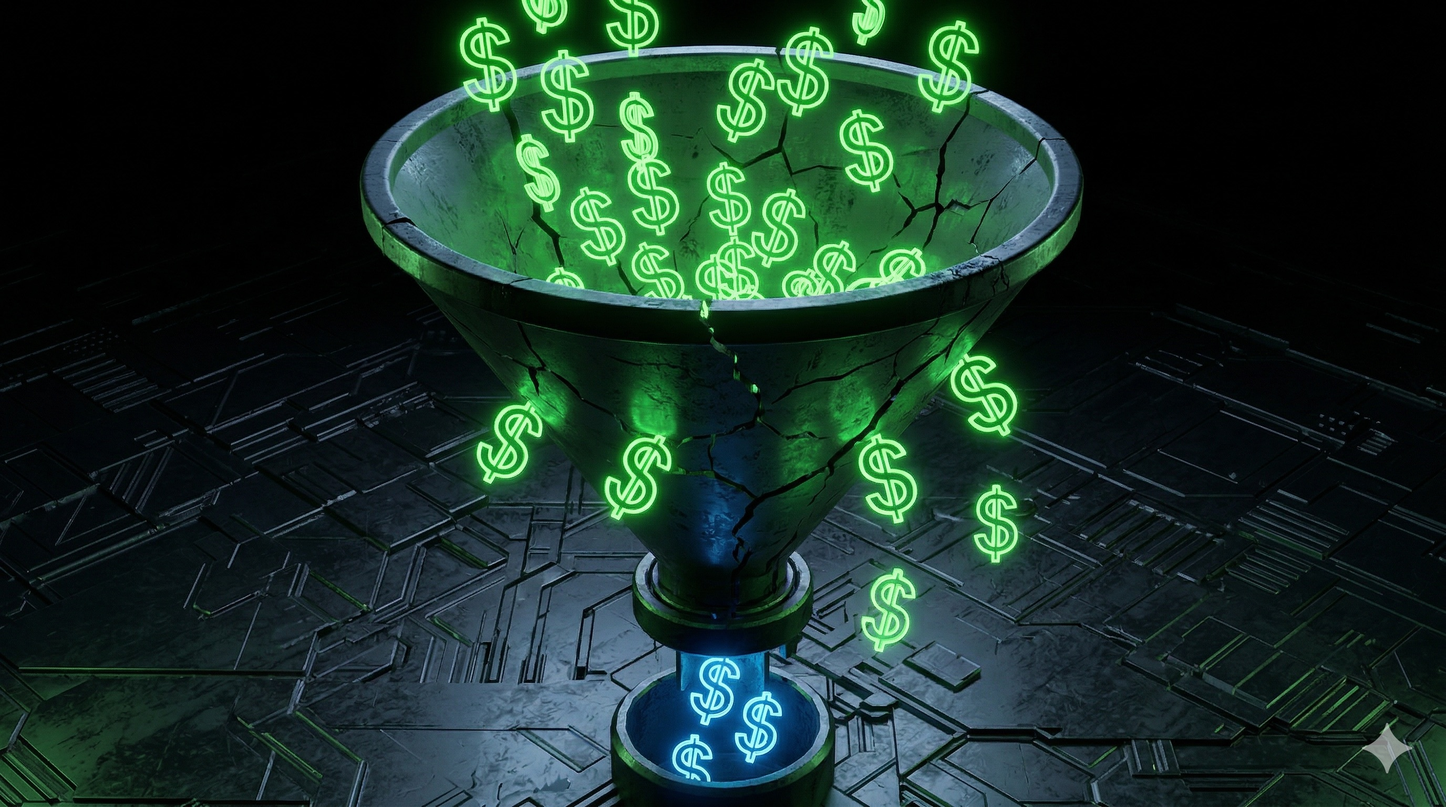
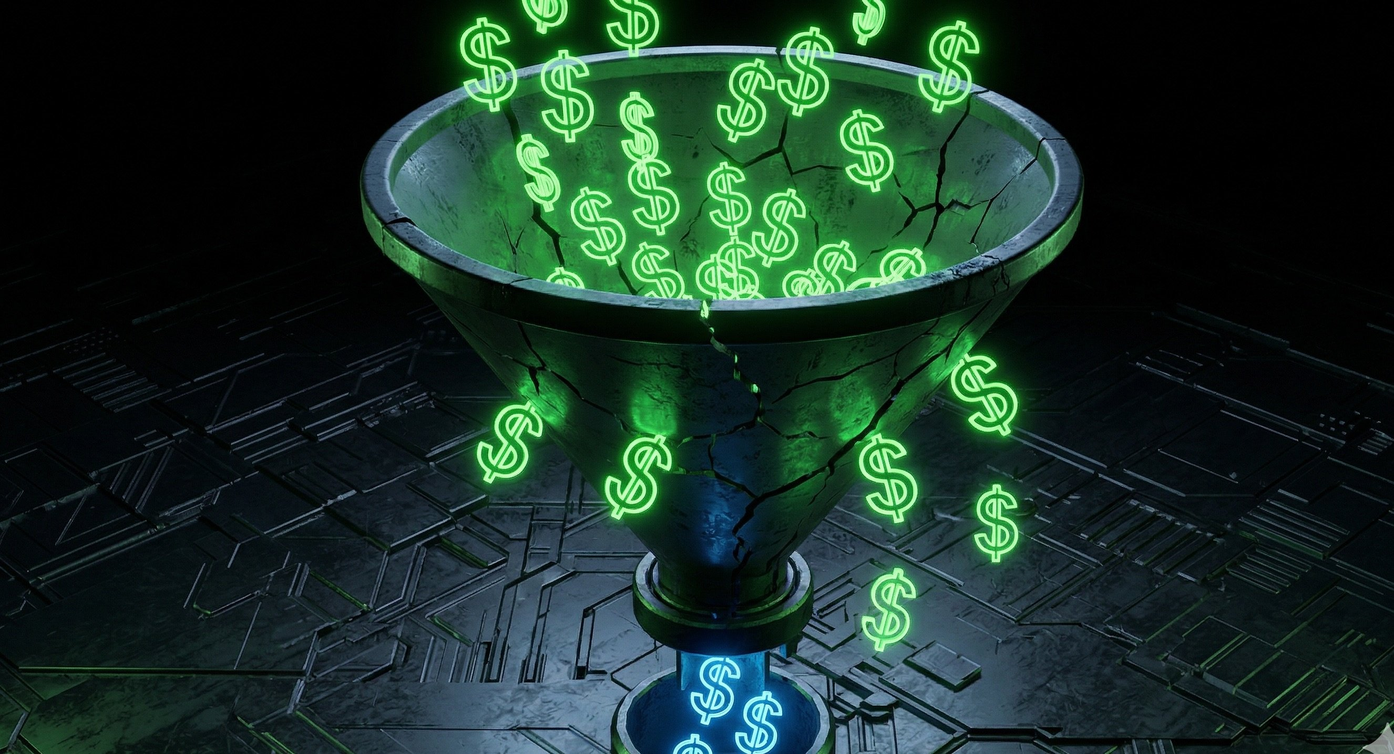
Crop watermarks from all hero images, remove CSS overlay
PIL crop: 100px off bottom-right of all 10 images, anchored top-left.
Removed CSS ::after watermark overlay (no longer needed).

diff --git a/magazine.css b/magazine.css
@@ -303,27 +303,7 @@
     display: block;
 }
 
-/* Hide AI watermarks in bottom-right corner */
-.article-hero::after,
-.article-card-image::after {
-    content: '';
-    position: absolute;
-    bottom: 0;
-    right: 0;
-    width: 60px;
-    height: 60px;
-    background: linear-gradient(135deg, transparent 40%, var(--bg-dark, #0a0a0a) 100%);
-    z-index: 2;
-    pointer-events: none;
-}
-
-.article-hero {
-    position: relative;
-}
-
-.article-card-image {
-    position: relative;
-}
+/* Images are cropped to remove watermarks — no CSS overlay needed */
 
 .article-hero-placeholder {
     width: 100%;
